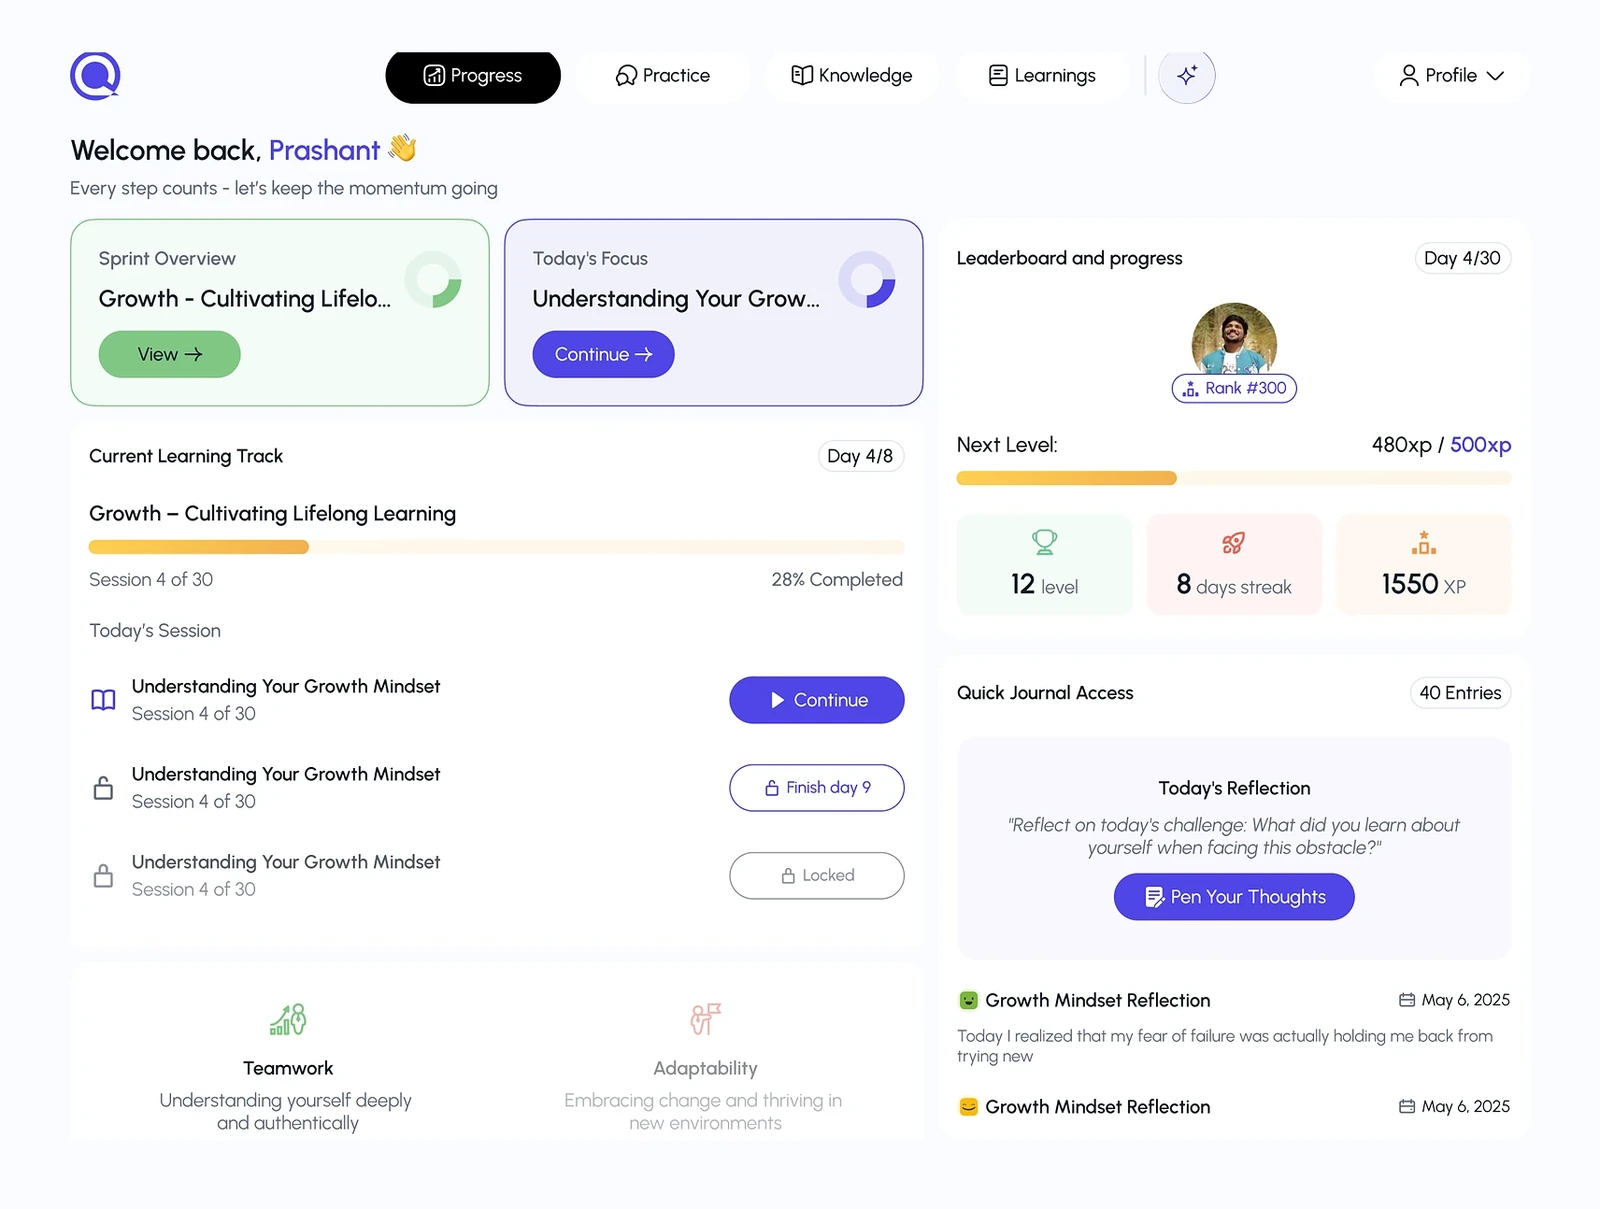
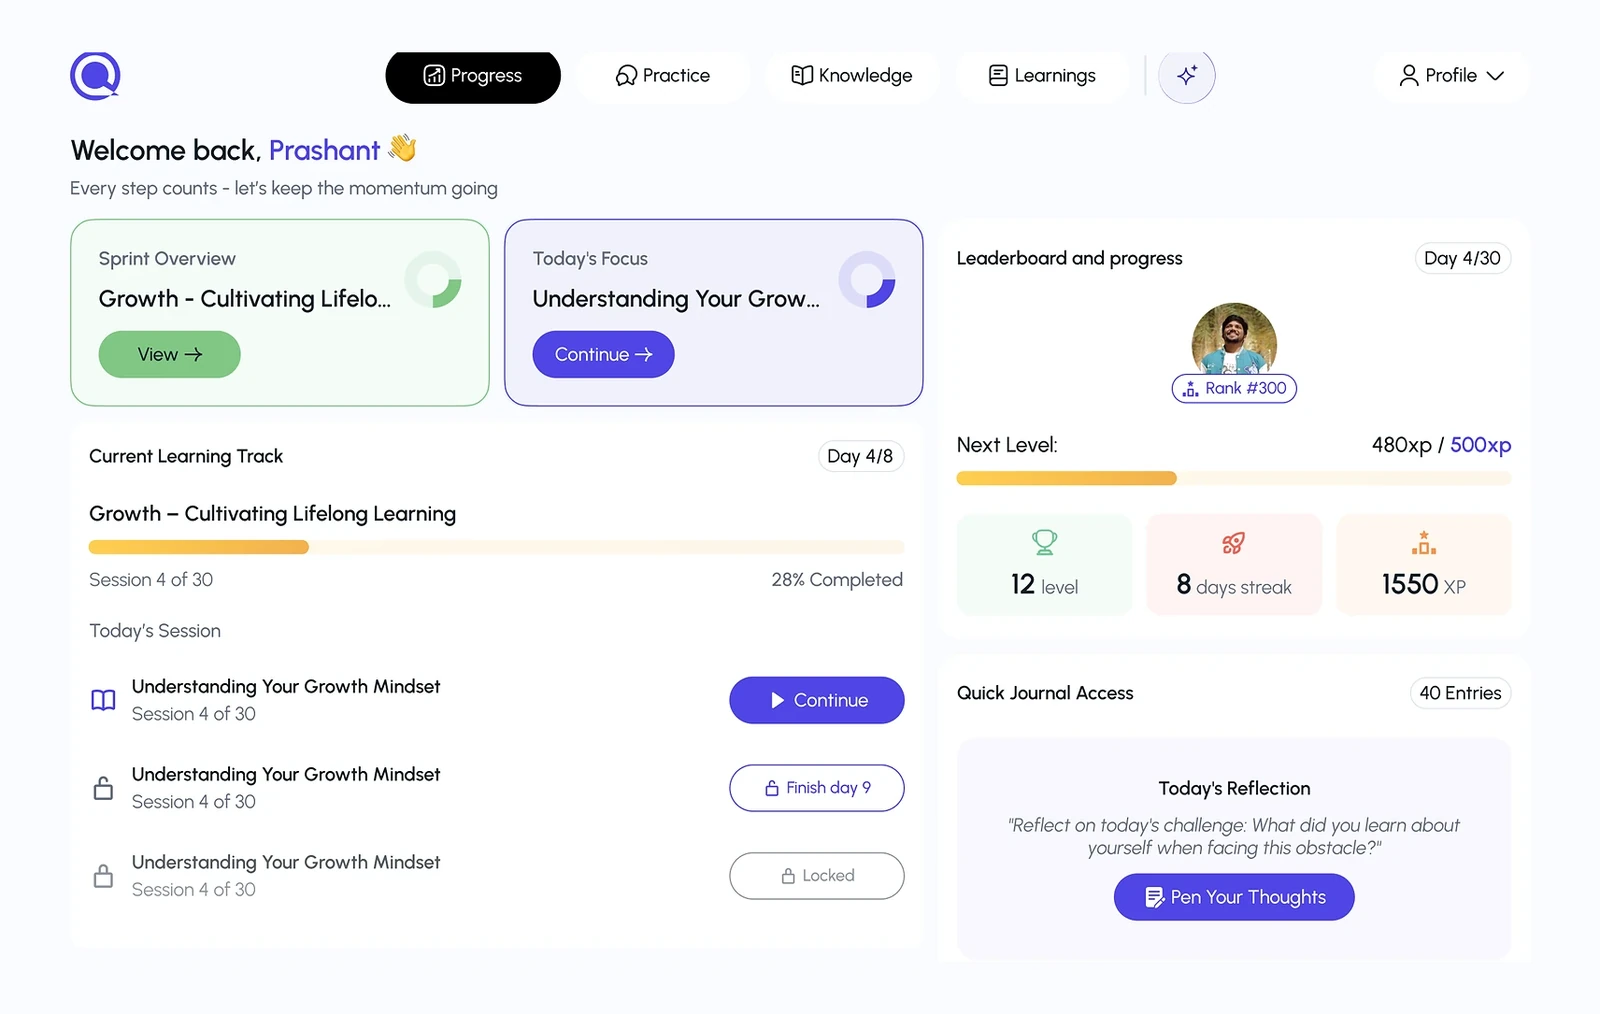
Trim clipped bottom row from QriosX screenshot

diff --git a/src/data/images.ts b/src/data/images.ts
@@ -13,7 +13,7 @@ export const images: Record<string, { w: number; h: number; v: number[] }> = {
   "12d9beb10c": { w: 1280, h: 960, v: [800] },
   "144a59afd1": { w: 3200, h: 2400, v: [800, 1600, 2400] },
   "14a046e14a": { w: 3024, h: 1964, v: [800, 1600, 2400] },
-  "14ea830a66": { w: 1600, h: 1209, v: [800, 1600] },
+  "14ea830a66": { w: 1600, h: 1014, v: [800, 1600] },
   "17aa74a7c0": { w: 3200, h: 2400, v: [800, 1600, 2400] },
   "192701f1a2": { w: 3200, h: 2400, v: [800, 1600, 2400] },
   "1f466df2b8": { w: 2657, h: 1581, v: [800, 1600, 2400] },
